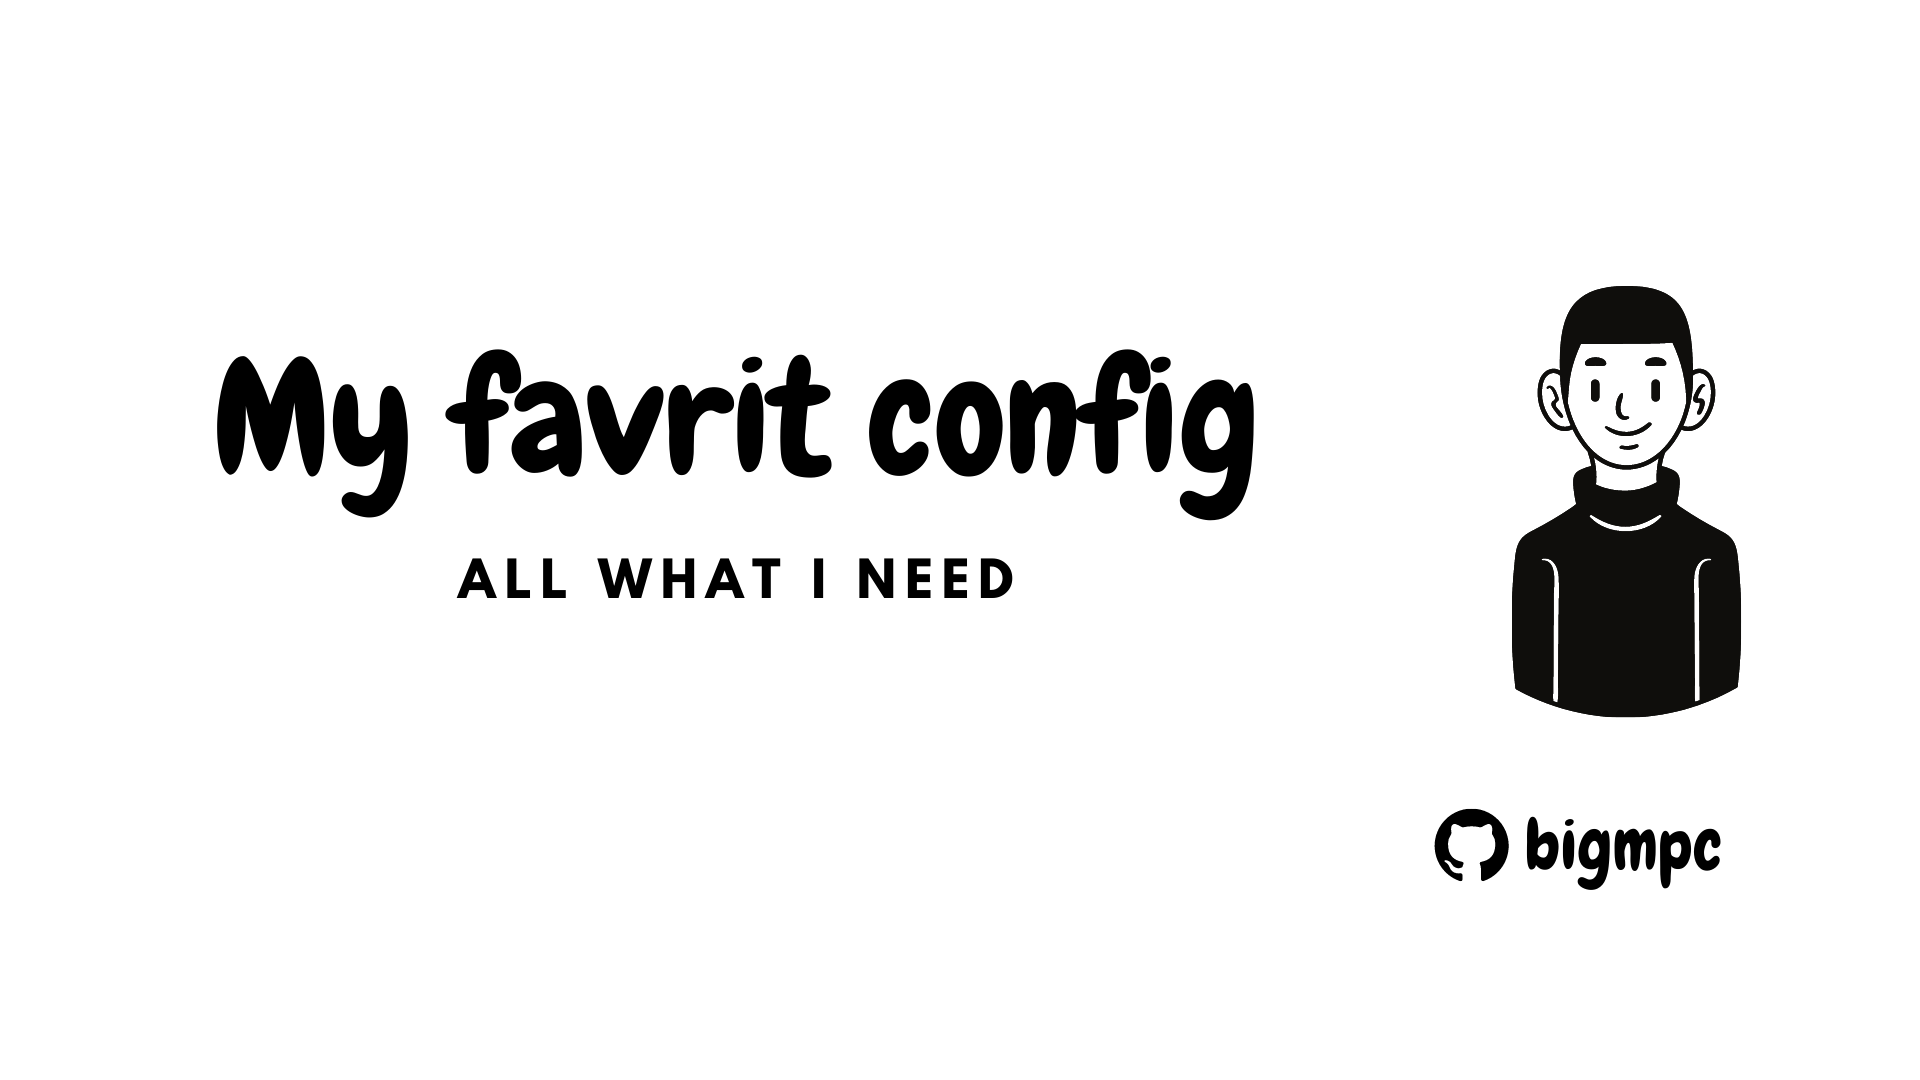
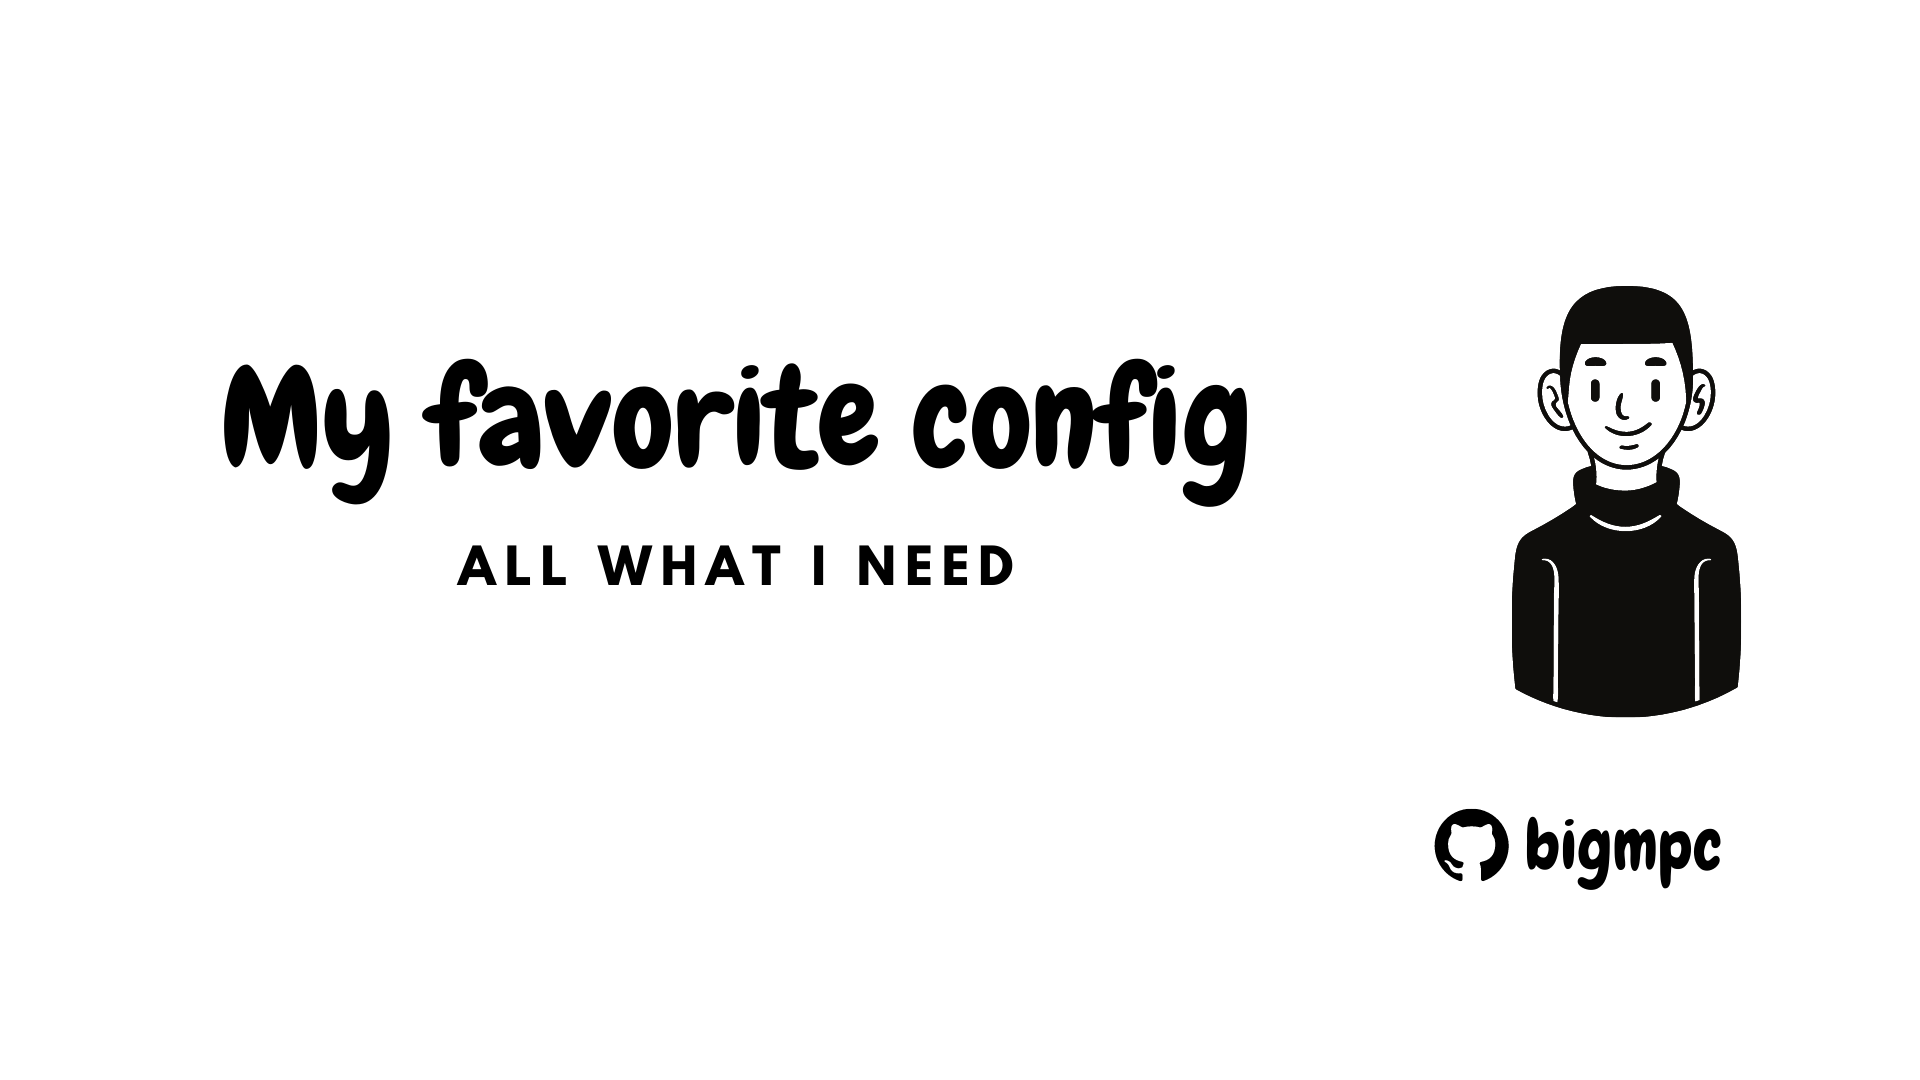
file update and type fixed

Changed region(s): [[0.0938, 0.3056, 0.6562, 0.4889], [0.2188, 0.4889, 0.4062, 0.55], [0.4375, 0.4889, 0.5312, 0.55]]

diff --git a/Ubuntu/README.md b/Ubuntu/README.md
@@ -1,6 +1,6 @@
 # My linux config:
 
-![My favorite config](My favorite config.png)
+![My favorite config](https://github.com/bigmpc/bigmpc/raw/main/Ubuntu/My%20favorite%20config.png)
 
 In here I want to talk about which app and config I use in ubuntu base linux on main system (laptop and pc)
 ---
